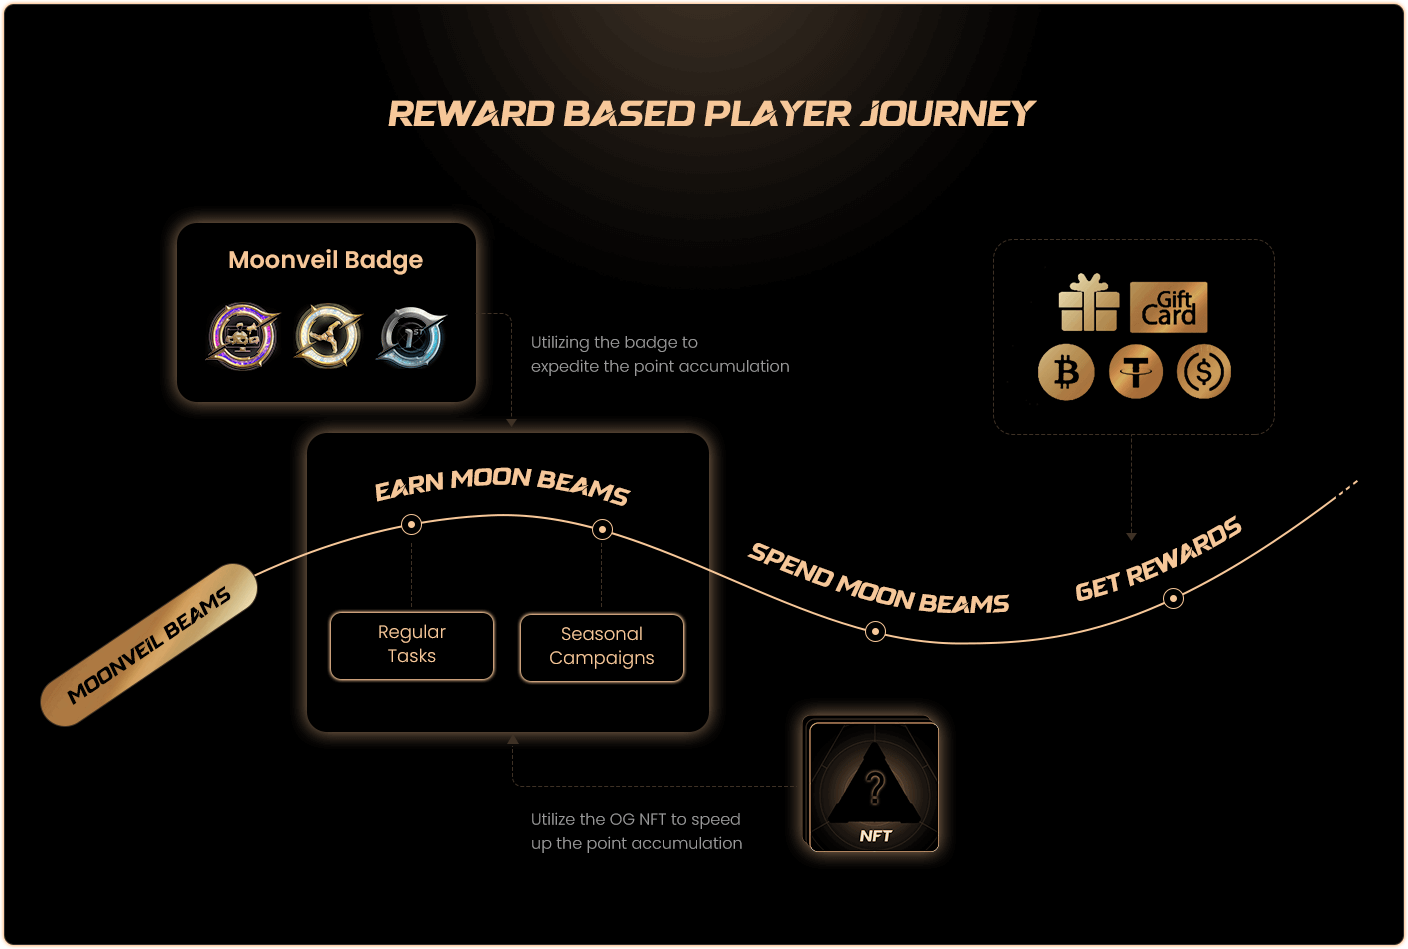
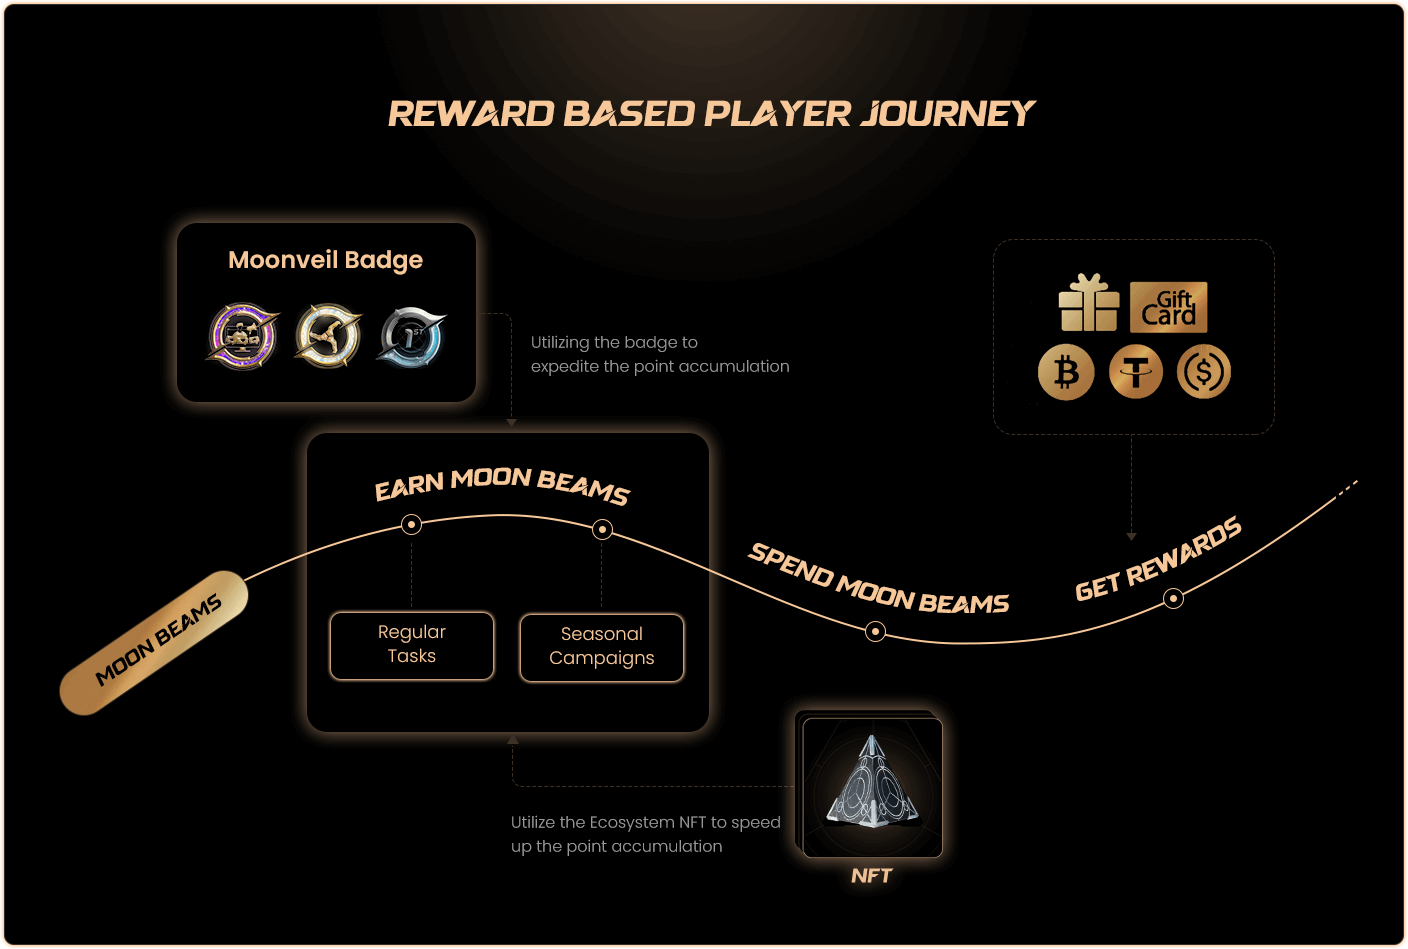
feat: optimize loyalty page.

Changed region(s): [[0.375, 0.7334, 0.6875, 0.9473], [0.0312, 0.5806, 0.1875, 0.764]]

diff --git a/src/pages/LoyaltyProgram/intro/subScreens/WhatIsMB.tsx b/src/pages/LoyaltyProgram/intro/subScreens/WhatIsMB.tsx
@@ -21,16 +21,16 @@ export default function WhatIsMBScreen() {
 
         <PageDesc
           hasBelt
-          className="text-left max-w-[32.125rem] mt-[6.5rem]"
+          className="text-left max-w-[32.125rem] mt-[2rem]"
           needAni
           baseAniTY
           title={
             <div className="font-semakin text-6xl mb-12">
               <div>What is</div>
-              <div className="text-basic-yellow">Moon Beams</div>
+              <div className="text-basic-yellow">Moon Beam</div>
             </div>
           }
-          subtitle="Moon Beams are the native points of Moonveil’s ecosystem, which symbolizes player contributions and participation. Moon Beams can be earned by engaging with the community, fantastic in-game performance, and completing tasks from the website. As the central point system, Moon Beams ensures lasting benefits to the most loyal community members in the Moonveil ecosystem. Players can exchange their accumulated Moon Beams for a variety of rewards, including exclusive in-game assets and on-chain assets. Accumulating more MBs will also grant access to our NFT whitelist events, token airdrops, and other premium rewards."
+          subtitle="Moon Beams are the native points of Moonveil’s ecosystem, which symbolizes player contribution and participation. Moon Beams can be earned by engaging with the community, fantastic in-game performance, and completing tasks from the website. As the central point system, Moon Beams ensures lasting benefits to the most loyal community members in the Moonveil ecosystem. Players can exchange their accumulated Moon Beams for a variety of rewards, including exclusive in-game assets and on-chain assets. Accumulating more MBs will also grant access to our NFT whitelist events, token airdrops, and other premium rewards."
         />
       </div>
     </div>

diff --git a/src/pages/LoyaltyProgram/intro/subScreens/Badge.tsx b/src/pages/LoyaltyProgram/intro/subScreens/Badge.tsx
@@ -18,7 +18,7 @@ export default function BadgeScreen() {
           needAni
           baseAniTY
           title="Moonveil Badge System"
-          subtitle="In collaboration with Moon Beams, we proudly present the Moonveil Badge System as part of our Loyalty Program. A diverse range of badges has been meticulously crafted to track and reward player engagement. These badges not only commemorate players' achievements but also unlock additional exclusive perks, including MBs and exciting bonuses yet to be revealed."
+          subtitle="In collaboration with Moon Beams, we proudly present the Moonveil Badge System as part of our Loyalty Program. A diverse range of badges have been meticulously crafted to track and reward player engagement. These badges not only commemorate players' achievements but also unlock additional exclusive perks, including MBs and exciting bonuses yet to be revealed."
         />
 
         <div>

diff --git a/src/pages/LoyaltyProgram/intro/subScreens/Index.tsx b/src/pages/LoyaltyProgram/intro/subScreens/Index.tsx
@@ -42,7 +42,7 @@ export default function IndexScreen() {
         needAni
         baseAniTY
         subtitle={
-          <div className="max-w-[32.0625rem] font-decima text-lg">
+          <div className="max-w-[35rem] font-decima text-lg">
             At Moonveil, player experience is of paramount importance. We are dedicated to recognizing and rewarding
             players&#39; contributions in our ecosystem by introducing the Moonveil Loyalty Program, centered around
             Moonveil Beam (MB) points.
